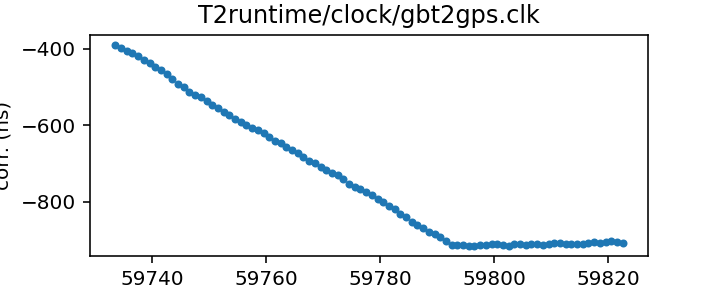
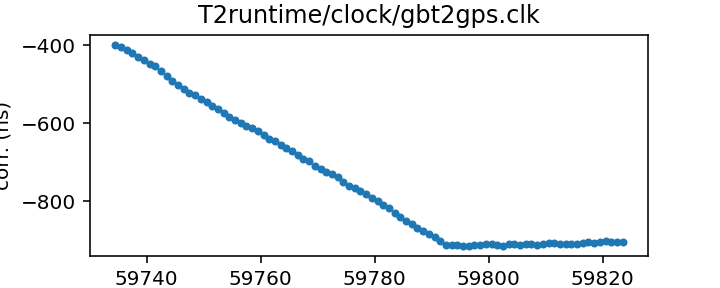
Routine gh-pages update from Github action Fri Sep  2 20:35:15 UTC 2022

diff --git a/status.md b/status.md
@@ -13,17 +13,17 @@ name of each clock file links to a page with more details.
 
 | Name | File | Corrections start | Corrections end | Last check date | Last check result 
 |:--- |:--- | --- | --- | --- |:--- 
-| [GPS to UTC](T2runtime/clock/gps2utc.clk.html) | `T2runtime/clock/gps2utc.clk` | 1993-01-01 MJD 48988.0 | 2022-07-29 MJD 59789.0 | 2022-09-01 | Updated 
-| [GPS to UTC (Combined Clock)](T2runtime/clock/gps2utc_cc.clk.html) | `T2runtime/clock/gps2utc_cc.clk` | 1993-01-01 MJD 48988.0 | 2022-07-29 MJD 59789.0 | 2022-09-01 | Unchanged 
-| [GPS to UTC (Corrected)](T2runtime/clock/gps2utc_c0p.clk.html) | `T2runtime/clock/gps2utc_c0p.clk` | 2010-12-29 MJD 55559.0 | 2022-07-29 MJD 59789.0 | 2022-09-01 | Updated 
-| [GBT](tempo/clock/time_gbt.dat.html) | `tempo/clock/time_gbt.dat` | 2000-12-31 MJD 51909.5 | 2022-08-31 MJD 59822.5 | 2022-09-01 | Updated 
-| [GBT (TEMPO2 converted from TEMPO)](T2runtime/clock/gbt2gps.clk.html) | `T2runtime/clock/gbt2gps.clk` | 2000-12-31 MJD 51909.5 | 2022-08-31 MJD 59822.5 | 2022-09-01 | Updated 
+| [GPS to UTC](T2runtime/clock/gps2utc.clk.html) | `T2runtime/clock/gps2utc.clk` | 1993-01-01 MJD 48988.0 | 2022-07-29 MJD 59789.0 | 2022-09-02 | Unchanged 
+| [GPS to UTC (Combined Clock)](T2runtime/clock/gps2utc_cc.clk.html) | `T2runtime/clock/gps2utc_cc.clk` | 1993-01-01 MJD 48988.0 | 2022-07-29 MJD 59789.0 | 2022-09-02 | Unchanged 
+| [GPS to UTC (Corrected)](T2runtime/clock/gps2utc_c0p.clk.html) | `T2runtime/clock/gps2utc_c0p.clk` | 2010-12-29 MJD 55559.0 | 2022-07-29 MJD 59789.0 | 2022-09-02 | Unchanged 
+| [GBT](tempo/clock/time_gbt.dat.html) | `tempo/clock/time_gbt.dat` | 2000-12-31 MJD 51909.5 | 2022-09-01 MJD 59823.5 | 2022-09-02 | Updated 
+| [GBT (TEMPO2 converted from TEMPO)](T2runtime/clock/gbt2gps.clk.html) | `T2runtime/clock/gbt2gps.clk` | 2000-12-31 MJD 51909.5 | 2022-09-01 MJD 59823.5 | 2022-09-02 | Updated 
 | [Jodrell Bank](T2runtime/clock/jb2gps.clk.html) | `T2runtime/clock/jb2gps.clk` | 2006-10-13 MJD 54021.4 | 2021-11-03 MJD 59521.0 | 2022-08-31 | Unchanged 
 | [Jodrell Bank Roach](T2runtime/clock/jbroach2jb.clk.html) | `T2runtime/clock/jbroach2jb.clk` | 2006-10-13 MJD 54021.4 | 2018-03-20 MJD 58197.6 | 2022-08-31 | Unchanged 
 | [Jodrell Bank DFB](T2runtime/clock/jbdfb2jb.clk.html) | `T2runtime/clock/jbdfb2jb.clk` | 2006-10-13 MJD 54021.4 | 2017-05-11 MJD 57884.0 | 2022-08-31 | Unchanged 
 | [Meerkat (observatory)](T2runtime/clock/mk2utc_observatory.clk.html) | `T2runtime/clock/mk2utc_observatory.clk` | 2019-01-01 MJD 58484.0 | 2022-08-17 MJD 59809.0 | 2022-08-29 | Updated 
-| [Leap seconds](tempo/clock/leap.sec.html) | `tempo/clock/leap.sec` | 1972-07-01 MJD 41499.0 | 2017-01-01 MJD 57754.0 | 2022-09-01 | Unchanged 
-| [UT1 table](tempo/clock/ut1.dat.html) | `tempo/clock/ut1.dat` | 1973-01-02 MJD 41684.0 | 2023-09-09 MJD 60196.0 | 2022-09-01 | Updated 
+| [Leap seconds](tempo/clock/leap.sec.html) | `tempo/clock/leap.sec` | 1972-07-01 MJD 41499.0 | 2017-01-01 MJD 57754.0 | 2022-09-02 | Unchanged 
+| [UT1 table](tempo/clock/ut1.dat.html) | `tempo/clock/ut1.dat` | 1973-01-02 MJD 41684.0 | 2023-09-09 MJD 60196.0 | 2022-09-02 | Unchanged 
 
 
 

diff --git a/T2runtime/clock/gps2utc_c0p.clk.md b/T2runtime/clock/gps2utc_c0p.clk.md
@@ -30,12 +30,11 @@ about the BIPM's published corrections, contact <tai@bipm.org>.
 | Clock file start | 2010-12-29 MJD 55559.0 |
 | Clock file end | 2022-07-29 MJD 59789.0 |
 | Update interval (days) | 1 |
-| Last update attempt | 2022-09-01 |
-| Last update result | Updated |
+| Last update attempt | 2022-09-02 |
+| Last update result | Unchanged |
 
 Log entries from the last few update attempts:
 ```
-2022-08-23 20:34:34.105 - Validation failed: New version of T2runtime/clock/gps2utc_c0p.clk clock corrections differ from old version where they overlap in 1 places
 2022-08-24 20:34:32.784 - Validation failed: New version of T2runtime/clock/gps2utc_c0p.clk clock corrections differ from old version where they overlap in 1 places
 2022-08-25 20:34:52.275 - Validation failed: New version of T2runtime/clock/gps2utc_c0p.clk clock corrections differ from old version where they overlap in 1 places
 2022-08-26 20:34:36.950 - Validation failed: New version of T2runtime/clock/gps2utc_c0p.clk clock corrections differ from old version where they overlap in 1 places
@@ -45,6 +44,7 @@ Log entries from the last few update attempts:
 2022-08-30 20:35:27.567 - Validation failed: New version of T2runtime/clock/gps2utc_c0p.clk clock corrections differ from old version where they overlap in 1 places
 2022-08-31 16:37:46.540 - Validation failed: New version of T2runtime/clock/gps2utc_c0p.clk has decreased from 4201 to 4171 measurements.
 2022-09-01 20:35:40.768 - Updated
+2022-09-02 20:34:52.716 - Unchanged
 ```
 [Full log](https://raw.githubusercontent.com/ipta/pulsar-clock-corrections/main/log/T2runtime/clock/gps2utc_c0p.clk.log)
 

diff --git a/T2runtime/clock/gps2utc.clk.md b/T2runtime/clock/gps2utc.clk.md
@@ -32,12 +32,11 @@ about the BIPM's published corrections, contact <tai@bipm.org>.
 | Clock file start | 1993-01-01 MJD 48988.0 |
 | Clock file end | 2022-07-29 MJD 59789.0 |
 | Update interval (days) | 1 |
-| Last update attempt | 2022-09-01 |
-| Last update result | Updated |
+| Last update attempt | 2022-09-02 |
+| Last update result | Unchanged |
 
 Log entries from the last few update attempts:
 ```
-2022-08-23 20:34:34.032 - Validation failed: New version of T2runtime/clock/gps2utc.clk clock corrections differ from old version where they overlap in 1 places
 2022-08-24 20:34:32.712 - Validation failed: New version of T2runtime/clock/gps2utc.clk clock corrections differ from old version where they overlap in 1 places
 2022-08-25 20:34:52.214 - Validation failed: New version of T2runtime/clock/gps2utc.clk clock corrections differ from old version where they overlap in 1 places
 2022-08-26 20:34:36.865 - Validation failed: New version of T2runtime/clock/gps2utc.clk clock corrections differ from old version where they overlap in 1 places
@@ -47,6 +46,7 @@ Log entries from the last few update attempts:
 2022-08-30 20:35:27.491 - Validation failed: New version of T2runtime/clock/gps2utc.clk clock corrections differ from old version where they overlap in 1 places
 2022-08-31 16:37:46.504 - Validation failed: New version of T2runtime/clock/gps2utc.clk has decreased from 10828 to 10798 measurements.
 2022-09-01 20:35:40.693 - Updated
+2022-09-02 20:34:52.673 - Unchanged
 ```
 [Full log](https://raw.githubusercontent.com/ipta/pulsar-clock-corrections/main/log/T2runtime/clock/gps2utc.clk.log)
 

diff --git a/tempo/clock/time_gbt.dat.md b/tempo/clock/time_gbt.dat.md
@@ -18,14 +18,13 @@ If questions arise, contact Ryan S. Lynch <rlynch@nrao.edu>.
 | Format | tempo |
 | Bogus last correction | False |
 | Clock file start | 2000-12-31 MJD 51909.5 |
-| Clock file end | 2022-08-31 MJD 59822.5 |
+| Clock file end | 2022-09-01 MJD 59823.5 |
 | Update interval (days) | 1 |
-| Last update attempt | 2022-09-01 |
+| Last update attempt | 2022-09-02 |
 | Last update result | Updated |
 
 Log entries from the last few update attempts:
 ```
-2022-08-23 20:34:34.756 - Validation failed: New version of tempo/clock/time_gbt.dat clock corrections differ from old version where they overlap in 1 places
 2022-08-24 20:34:33.836 - Validation failed: New version of tempo/clock/time_gbt.dat clock corrections differ from old version where they overlap in 1 places
 2022-08-25 20:34:52.711 - Validation failed: New version of tempo/clock/time_gbt.dat clock corrections differ from old version where they overlap in 1 places
 2022-08-26 20:34:37.350 - Validation failed: New version of tempo/clock/time_gbt.dat clock corrections differ from old version where they overlap in 1 places
@@ -35,6 +34,7 @@ Log entries from the last few update attempts:
 2022-08-30 20:35:28.495 - Validation failed: New version of tempo/clock/time_gbt.dat clock corrections differ from old version where they overlap in 1 places
 2022-08-31 16:37:46.402 - Updated
 2022-09-01 20:35:41.095 - Updated
+2022-09-02 20:34:53.206 - Updated
 ```
 [Full log](https://raw.githubusercontent.com/ipta/pulsar-clock-corrections/main/log/tempo/clock/time_gbt.dat.log)
 

diff --git a/T2runtime/clock/gbt2gps.clk.md b/T2runtime/clock/gbt2gps.clk.md
@@ -23,14 +23,13 @@ If questions arise about the conversion, contact Anne Archibald
 | Format | tempo2 |
 | Bogus last correction | False |
 | Clock file start | 2000-12-31 MJD 51909.5 |
-| Clock file end | 2022-08-31 MJD 59822.5 |
+| Clock file end | 2022-09-01 MJD 59823.5 |
 | Update interval (days) | 1 |
-| Last update attempt | 2022-09-01 |
+| Last update attempt | 2022-09-02 |
 | Last update result | Updated |
 
 Log entries from the last few update attempts:
 ```
-2022-07-25 20:33:27.419 - Updated
 2022-07-26 20:32:24.976 - Updated
 2022-07-27 20:32:57.918 - Updated
 2022-07-28 20:35:28.492 - Updated
@@ -40,12 +39,13 @@ Log entries from the last few update attempts:
 2022-08-01 20:37:41.202 - Updated
 2022-08-31 16:39:03.349 - Updated
 2022-09-01 20:35:41.180 - Updated
+2022-09-02 20:34:53.274 - Updated
 ```
 [Full log](https://raw.githubusercontent.com/ipta/pulsar-clock-corrections/main/log/T2runtime/clock/gbt2gps.clk.log)
 
 Leading comments from clock file:
 
-    # This file was automatically converted from tempo/clock/time_gbt.dat on 2022-09-01 20:35:41.097
+    # This file was automatically converted from tempo/clock/time_gbt.dat on 2022-09-02 20:34:53.208
 
 
 

diff --git a/T2runtime/clock/gps2utc_cc.clk.md b/T2runtime/clock/gps2utc_cc.clk.md
@@ -29,12 +29,11 @@ about the BIPM's published corrections, contact <tai@bipm.org>.
 | Clock file start | 1993-01-01 MJD 48988.0 |
 | Clock file end | 2022-07-29 MJD 59789.0 |
 | Update interval (days) | 1 |
-| Last update attempt | 2022-09-01 |
+| Last update attempt | 2022-09-02 |
 | Last update result | Unchanged |
 
 Log entries from the last few update attempts:
 ```
-2022-08-23 20:34:34.070 - Unchanged
 2022-08-24 20:34:32.750 - Unchanged
 2022-08-25 20:34:52.246 - Unchanged
 2022-08-26 20:34:36.914 - Unchanged
@@ -44,6 +43,7 @@ Log entries from the last few update attempts:
 2022-08-30 20:35:27.531 - Unchanged
 2022-08-31 20:34:56.230 - Unchanged
 2022-09-01 20:35:40.731 - Unchanged
+2022-09-02 20:34:52.705 - Unchanged
 ```
 [Full log](https://raw.githubusercontent.com/ipta/pulsar-clock-corrections/main/log/T2runtime/clock/gps2utc_cc.clk.log)
 

diff --git a/tempo/clock/ut1.dat.md b/tempo/clock/ut1.dat.md
@@ -30,12 +30,11 @@ If there are any questions, contact Anne Archibald
 | File start | 1973-01-02 MJD 41684.0 |
 | File end | 2023-09-09 MJD 60196.0 |
 | Update interval (days) | 0 |
-| Last update attempt | 2022-09-01 |
-| Last update result | Updated |
+| Last update attempt | 2022-09-02 |
+| Last update result | Unchanged |
 
 Log entries from the last few update attempts:
 ```
-2022-08-27 20:33:54.860 - Unchanged
 2022-08-28 20:34:19.991 - Unchanged
 2022-08-29 20:35:38.931 - Unchanged
 2022-08-30 20:35:42.360 - Unchanged
@@ -45,5 +44,6 @@ Log entries from the last few update attempts:
 2022-08-31 16:39:03.965 - Unchanged
 2022-08-31 20:35:07.131 - Updated
 2022-09-01 20:35:51.486 - Updated
+2022-09-02 20:35:01.591 - Unchanged
 ```
 [Full log](https://raw.githubusercontent.com/ipta/pulsar-clock-corrections/main/log/tempo/clock/ut1.dat.log)

diff --git a/tempo/clock/leap.sec.md b/tempo/clock/leap.sec.md
@@ -21,12 +21,11 @@ If there are any questions, contact Anne Archibald
 | File start | 1972-07-01 MJD 41499.0 |
 | File end | 2017-01-01 MJD 57754.0 |
 | Update interval (days) | 0 |
-| Last update attempt | 2022-09-01 |
+| Last update attempt | 2022-09-02 |
 | Last update result | Unchanged |
 
 Log entries from the last few update attempts:
 ```
-2022-08-27 20:33:44.872 - Unchanged
 2022-08-28 20:34:12.447 - Unchanged
 2022-08-29 20:35:28.186 - Unchanged
 2022-08-30 20:35:28.552 - Unchanged
@@ -36,5 +35,6 @@ Log entries from the last few update attempts:
 2022-08-31 16:39:03.377 - Unchanged
 2022-08-31 20:34:59.383 - Unchanged
 2022-09-01 20:35:43.986 - Unchanged
+2022-09-02 20:34:53.307 - Unchanged
 ```
 [Full log](https://raw.githubusercontent.com/ipta/pulsar-clock-corrections/main/log/tempo/clock/leap.sec.log)
